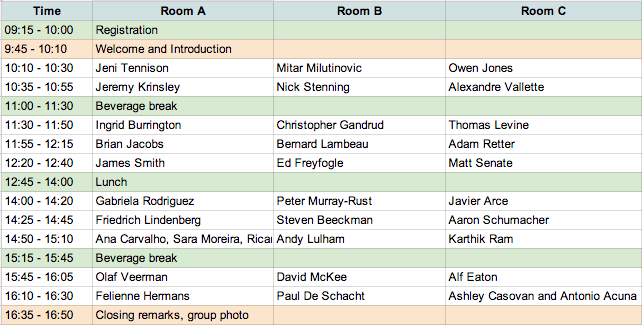
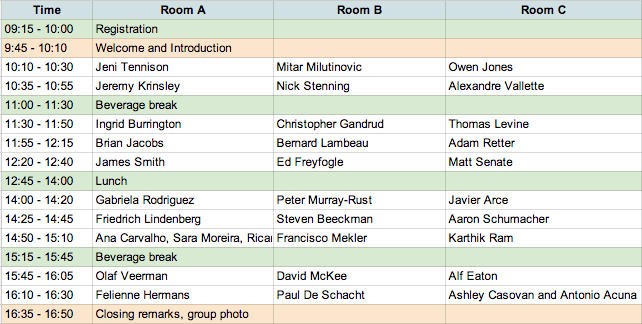
updates

diff --git a/index.html b/index.html
@@ -148,14 +148,14 @@
             <a href="#gabrielarodriguez"><h3>Vozdata: Open data with the help of the community</h3></a>
           </li>
           <li class="features-item">
-            <a href="https://twitter.com/andylolz">
-              <span class="features-circle" style="background-image: url(img/speakers/andylulham.jpeg)">
+            <a href="https://twitter.com/meklerg">
+              <span class="features-circle" style="background-image: url(img/speakers/franciscomekler.jpg)">
                 <span class="features-circle-icon">
                 </span>
               </span>
             </a>
-            <h4>Andy Lulham</h4>
-            <a href="#andylulham"><h3>CLI pipes in a browser - Data Pipes</h3></a>
+            <h4>Francisco Mekler</h4>
+            <a href="#franciscomekler"><h3>Hacking Education: Public budget from PDF to CSV</h3></a>
           </li>
           <li class="features-item">
             <a href="https://twitter.com/Felienne">
@@ -407,14 +407,12 @@
             <a href="#pauldeschacht"><h3>Ease the pain of parsing data</h3></a>
           </li>
           <li class="features-item">
-            <a href="https://twitter.com/adriaan_pelzer">
-              <span class="features-circle" style="background-image: url(img/speakers/adriaanpelzer.jpg)">
-                <span class="features-circle-icon">
-                </span>
+              <span class="features-circle" style="background-image: url(img/speakers/ashleycasovan.jpg)">
+              <span class="features-circle-icon">
               </span>
-            </a>
-            <h4>Adriaan Pelzer</h4>
-            <a href="#adriaanpelzer"><h3>Your infrastructure - on fire! (How to serve blazingly fast, massively scalable real-time data)</h3></a>
+            </span>
+            <h4>Ashley Casovan, Antonio Acuna</h4>
+            <a href="#ashleycasovan"><h3>How do we improve data quality internationally?</h3></a>
           </li>
         </ul>
       </div>
@@ -464,14 +462,14 @@
             <p>In 2014, La Nacion in Argentina launched VozData, a website to crowdsource senate spendings by asking people to transcribe information from 6000 scanned PDF documents from the senate. This is a talk about the code that created that website and it can be used with any document set and any data you may need to take from them.</p>
           </div>
         </li>
-        <li id="andylulham" class="presentation-item">
+        <li id="franciscomekler" class="presentation-item">
           <div class="left">
-            <h3>Command line transforms in a browser – what’s the point of Data Pipes?</h3>
-            <a href="https://twitter.com/andylolz"><h4>Andy Lulham</h4></a>
-            <div class="bio">Freelance software developer. Transparency, open data, volunteering, teaching, campaigning, sustainability.</div>
+            <h3>Hacking Education: Public budget from PDF to CSV</h3>
+            <a href="https://twitter.com/meklerg"><h4>Francisco Mekler</h4></a>
+            <div class="bio">Telemático. Trabajo en http://www.imco.org.mx. Paco = policía en Chile. Proud to work directly in @mejoratuescuela.</div>
           </div>
           <div class="right">
-            <p>Data Pipes (a tool for sharing htmlified, transformed data) has received a fair amount of stick for taking command line data tools and hammering them into the browser bar. Here, we discuss when and how this can make for a useful tool – particularly in the context of teaching data science to newbies.</p>
+            <p>As part of <a href="http://www.mejoratuescuela.org">mejoratuescuela.org</a>, we opened public data that was given in PDF's and obstrusive websites. We made an study based on this data and we achieved public policy changes, we helped the open data movement and community in México.  Its incredible the impact we made only by a team of 3 people and I want to share my side of the story.</p>
           </div>
         </li>
         <li id="feliennehermans" class="presentation-item">
@@ -746,14 +744,14 @@ He pulls data out of websites at ScraperWiki for a living and dresses up as a wi
           <div class="right">
             <p>A <a href="http://git.macropus.org/vege-table/">vege-table</a> is a data table: each row of the table is an item in a collection, and each column is a property of those items. These properties are all JavaScript functions, so their values can be computed or fetched from remote resources, and merged from different sources. This talk will describe the project’s background - including limitations of current tools for building, manipulating and publishing data tables - and examples of its use with real data.</p>
           </div>
-          <li id="adriaanpelzer" class="presentation-item">
+          <li id="ashleycasovan" class="presentation-item">
             <div class="left">
-              <h3>Your infrastructure - on fire! (How to serve blazingly fast, massively scalable real-time data)</h3>
-              <a href="http://twitter.com/adriaan_pelzer"><h4>Adriaan Pelzer</h4></a>
-              <div class="bio">Adriaan Pelzer builds real time API’s in Node.js and C. He is a functional programming advocate, and optimisation junkie. He is currently building a content and related data API called "The Pulveriser" for Trinity Mirror.</div>
+              <h3>How do we improve data quality internationally?</h3>
+              <h4>Ashley Casovan and Antonio Acuna</h4>
+              <div class="bio">This is a joint presentation from the Government of Canada and the Government of the United Kingdom.</div>
             </div>
             <div class="right">
-              <p>Speed of delivery and scalability are two mutually contradicting goals - scalability is aided by increasing cache expiry times, which hampers speed of delivery. This is the story of how we built "The Pulveriser", and achieved the best of both worlds.</p>
+              <p>Open data isn’t a new concept, at least to those attending this conference. Now that more governments, agencies, and organizations are on board to release valuable data and information, what standards, guidelines, and other policy instruments need to be established in order to make that data useful to the public? Given that nations have similar data types, creating these policies with an international lens would create greater interoperability and lead to increased use. How do we get here? Who is the governance body? Come to this interactive presentation to share, learn, and move this conversation forward!</p>
             </div>
         </li>
       </ul>
